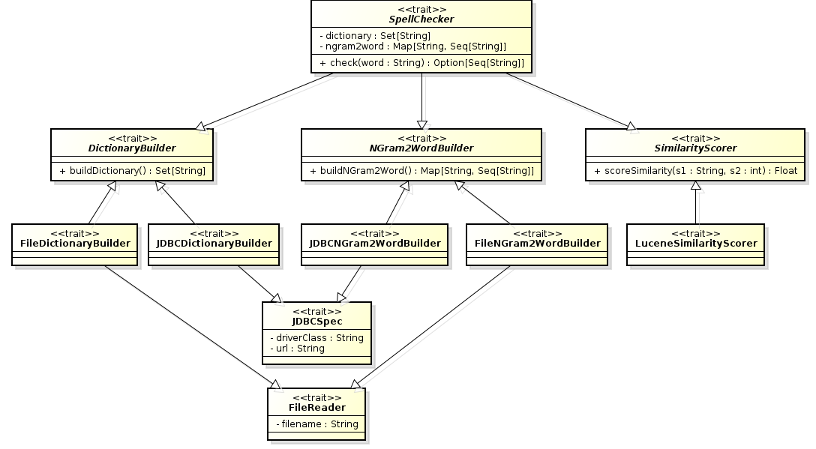
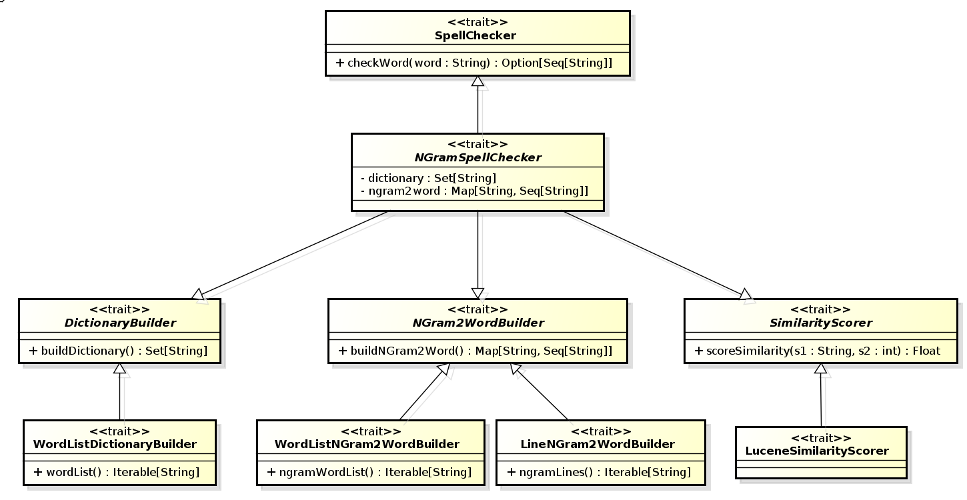
Refactoring OO implementation

diff --git a/README.md b/README.md
@@ -955,10 +955,18 @@ println(myTokenizer.tokenize("a,b,c")) // prints: WrappedArray(a, b, c)```
 Finally, variables can be adscribed to multiple traits at instantiation time:
 
 ```scala
-val spellChecker = new SpellChecker
-  with FileDictionaryBuilder
-  with FileNGram2WordBuilder
-  with LuceneSimilarityScorer
+val spellChecker = new NGramSpellChecker
+  with WordListDictionaryBuilder
+  with LineNGram2WordBuilder
+  with LuceneStringDistance
+{
+  val minSimilarity = 0.75
+  val stringDistance = new org.apache.lucene.search.spell.LevensteinDistance
+
+  lazy val wordList = FileSource.lines(wordFilename)
+
+  lazy val ngramLines = FileSource.lines(ngram2wordFilename)
+}
 ```
 
 This is a case of trait composition also called the _cake pattern_.
@@ -970,9 +978,9 @@ Here, `SpellChecker` is a trait expecting to be mixed with subtypes of
 
 Each of these required traits can have multiple implementations. For instance
 
-- a `DictionaryBuilder` can build an in-memory dictionary set from
-  * a filesystem text file `(FileDictionaryBuilder)`
-  * a database table `(JDBCDictionaryBuilder)`
+- an `NGram2WordBuilder` can build an in-memory dictionary map of bigrams to words from
+  * a list of words `(WordListNGram2WordBuilder)`
+  * a list of bigram/words pairs `(LineNGram2WordBuilder)`
 - a `SimilarityScorer` can be based on
   * Apache's Lucene library `(LuceneSimilarityScorer)` 
   * LingPipe library `(LingPipeSimilarityScorer)`
